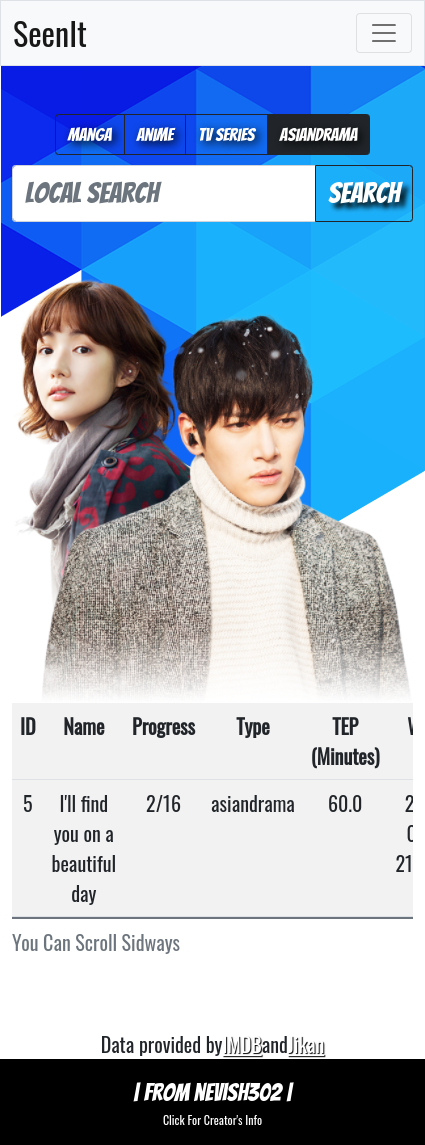
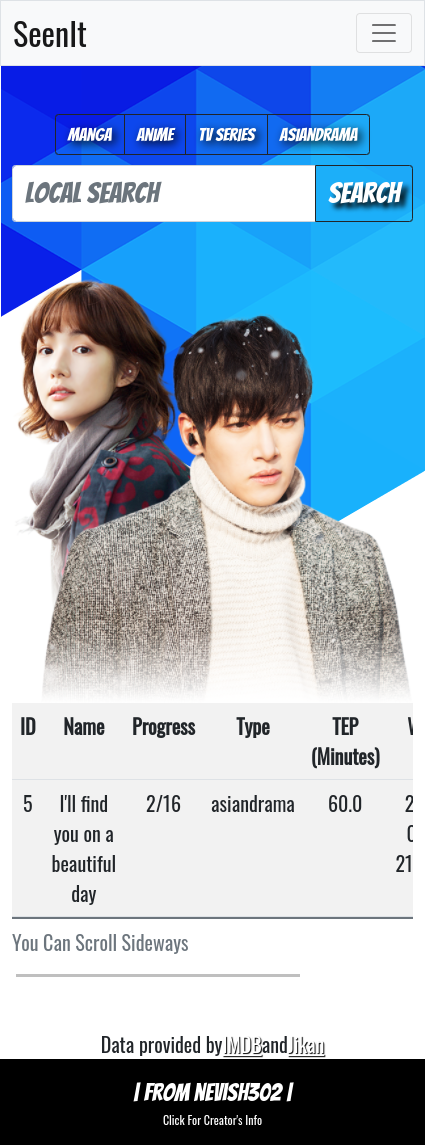
Final Changes

Changed region(s): [[0.6118, 0.0917, 0.8871, 0.1528], [0.3365, 0.7948, 0.4588, 0.8559]]

diff --git a/templates/addupdate.html b/templates/addupdate.html
@@ -62,7 +62,7 @@
                     </tr>
                     {% endif %}
                 {% endfor %}
-                <caption style="caption-side:bottom;">You Can Scroll sideways</caption>
+                <caption style="caption-side:bottom;">You Can Scroll Sideways</caption>
             </table>
             </div>        
     <div class="section">

diff --git a/templates/index.html b/templates/index.html
@@ -120,7 +120,7 @@
             </tr>
             {% endif %}
         {% endfor %}
-        <caption style="caption-side:bottom;">You Can Scroll sideways</caption>
+        <caption style="caption-side:bottom;">You Can Scroll Sideways</caption>
     </table>
     </div>
 </section>

diff --git a/templates/userresult.html b/templates/userresult.html
@@ -120,7 +120,7 @@
             </tr>
             {% endif %}
         {% endfor %}
-        <caption style="caption-side:bottom;">You Can Scroll sideways</caption>
+        <caption style="caption-side:bottom;">You Can Scroll Sideways</caption>
     </table>
     </div>
 </section>

diff --git a/static/styles.css b/static/styles.css
@@ -42,7 +42,7 @@ body {
     font-size: 20px;
     background:url(/static/images/backgrounds/b1.png);
     background-repeat:no-repeat;
-    background-attachment:;
+    background-attachment:fixed;
 }
 .heading
 {
